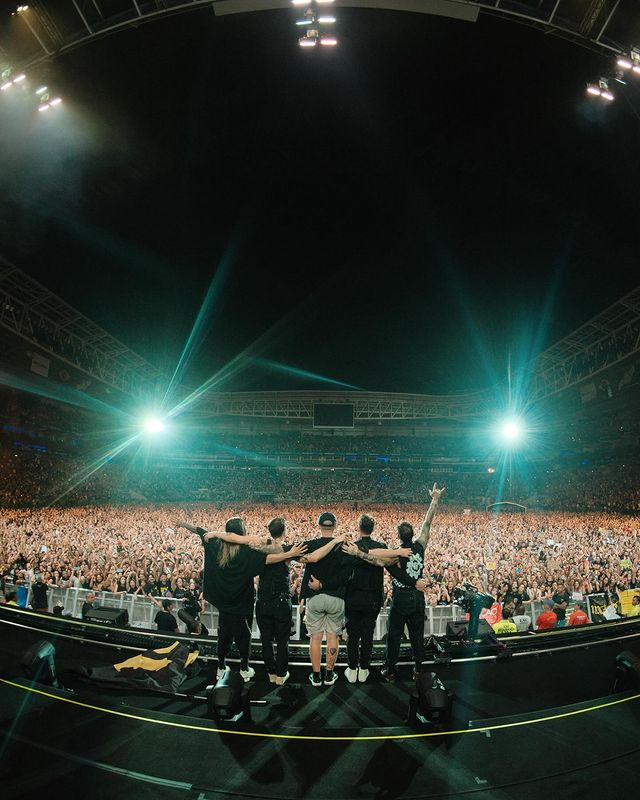
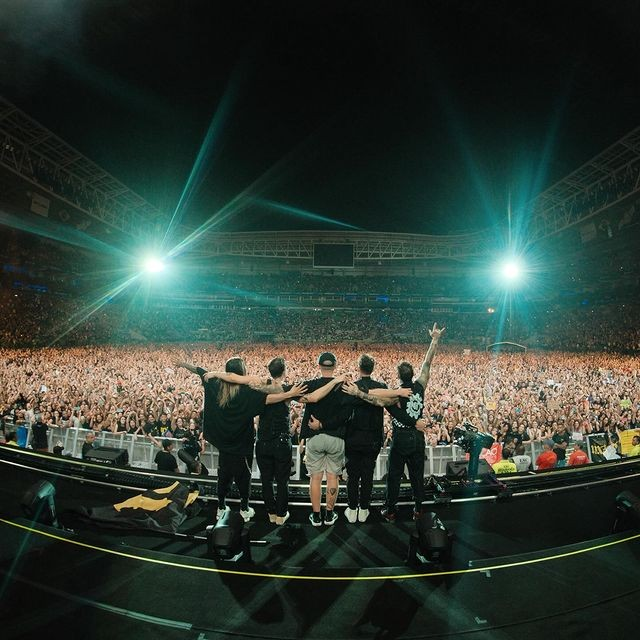
adição do album completo

diff --git a/index.html b/index.html
@@ -77,15 +77,15 @@
                             <p>Ouça agora Cedo ou Tarde</p>
                         </a>
                     </div>
-                    <div class="allianz1">
-                        <a href="https://www.instagram.com/p/C9LUPmdOSjm/" target="_blank">
-                            <img src="./assets/allianz1.jpg" alt="Banda de costas no palco, olhando para uma grande multidão em um estádio iluminado à noite">
-                            <p>Allianz Parque 16/12 </p>
+                    <div class="tourcedotarde">
+                        <a href="https://open.spotify.com/intl-pt/album/4xOPGSx0QLhjmYo1OG1NbR?go=1&nd=1&dlsi=03da7156095049cd" target="_blank">
+                            <img src="./assets/tourcedotarde.jpg" alt="Banda de costas no palco, olhando para uma grande multidão em um estádio iluminado à noite">
+                            <p>Ouça agora o álbum completo </p>
                         </a>
                     </div>
                     <div class="allianz2">
-                        <a href="https://www.instagram.com/p/C07_oUstL6W/" target="_blank">
-                            <img src="./assets/allianz2.jpg" alt="Banda no palco em silhueta contra um fundo vermelho brilhante, com integrantes levantando os braços e instrumentos.">
+                        <a href="https://www.instagram.com/p/C9LUPmdOSjm/" target="_blank">
+                            <img src="./assets/allianz1.jpg" alt="Banda de costas no palco, olhando para uma grande multidão em um estádio iluminado à noite.">
                             <p>Allianz Parque 16/12 </p>
                         </a>                   
                     </div>

diff --git a/P1.css b/P1.css
@@ -103,7 +103,7 @@ a {
     margin-bottom: 4rem;
 }
 
-.sorezo img, .cartaspravc img, .ligacao img, .cedooutarde img, .allianz1 img, .allianz2 img {
+.sorezo img, .cartaspravc img, .ligacao img, .cedooutarde img, .tourcedotarde img, .allianz2 img {
     width: 100%; 
     max-width: 400px; 
     height: auto; 
